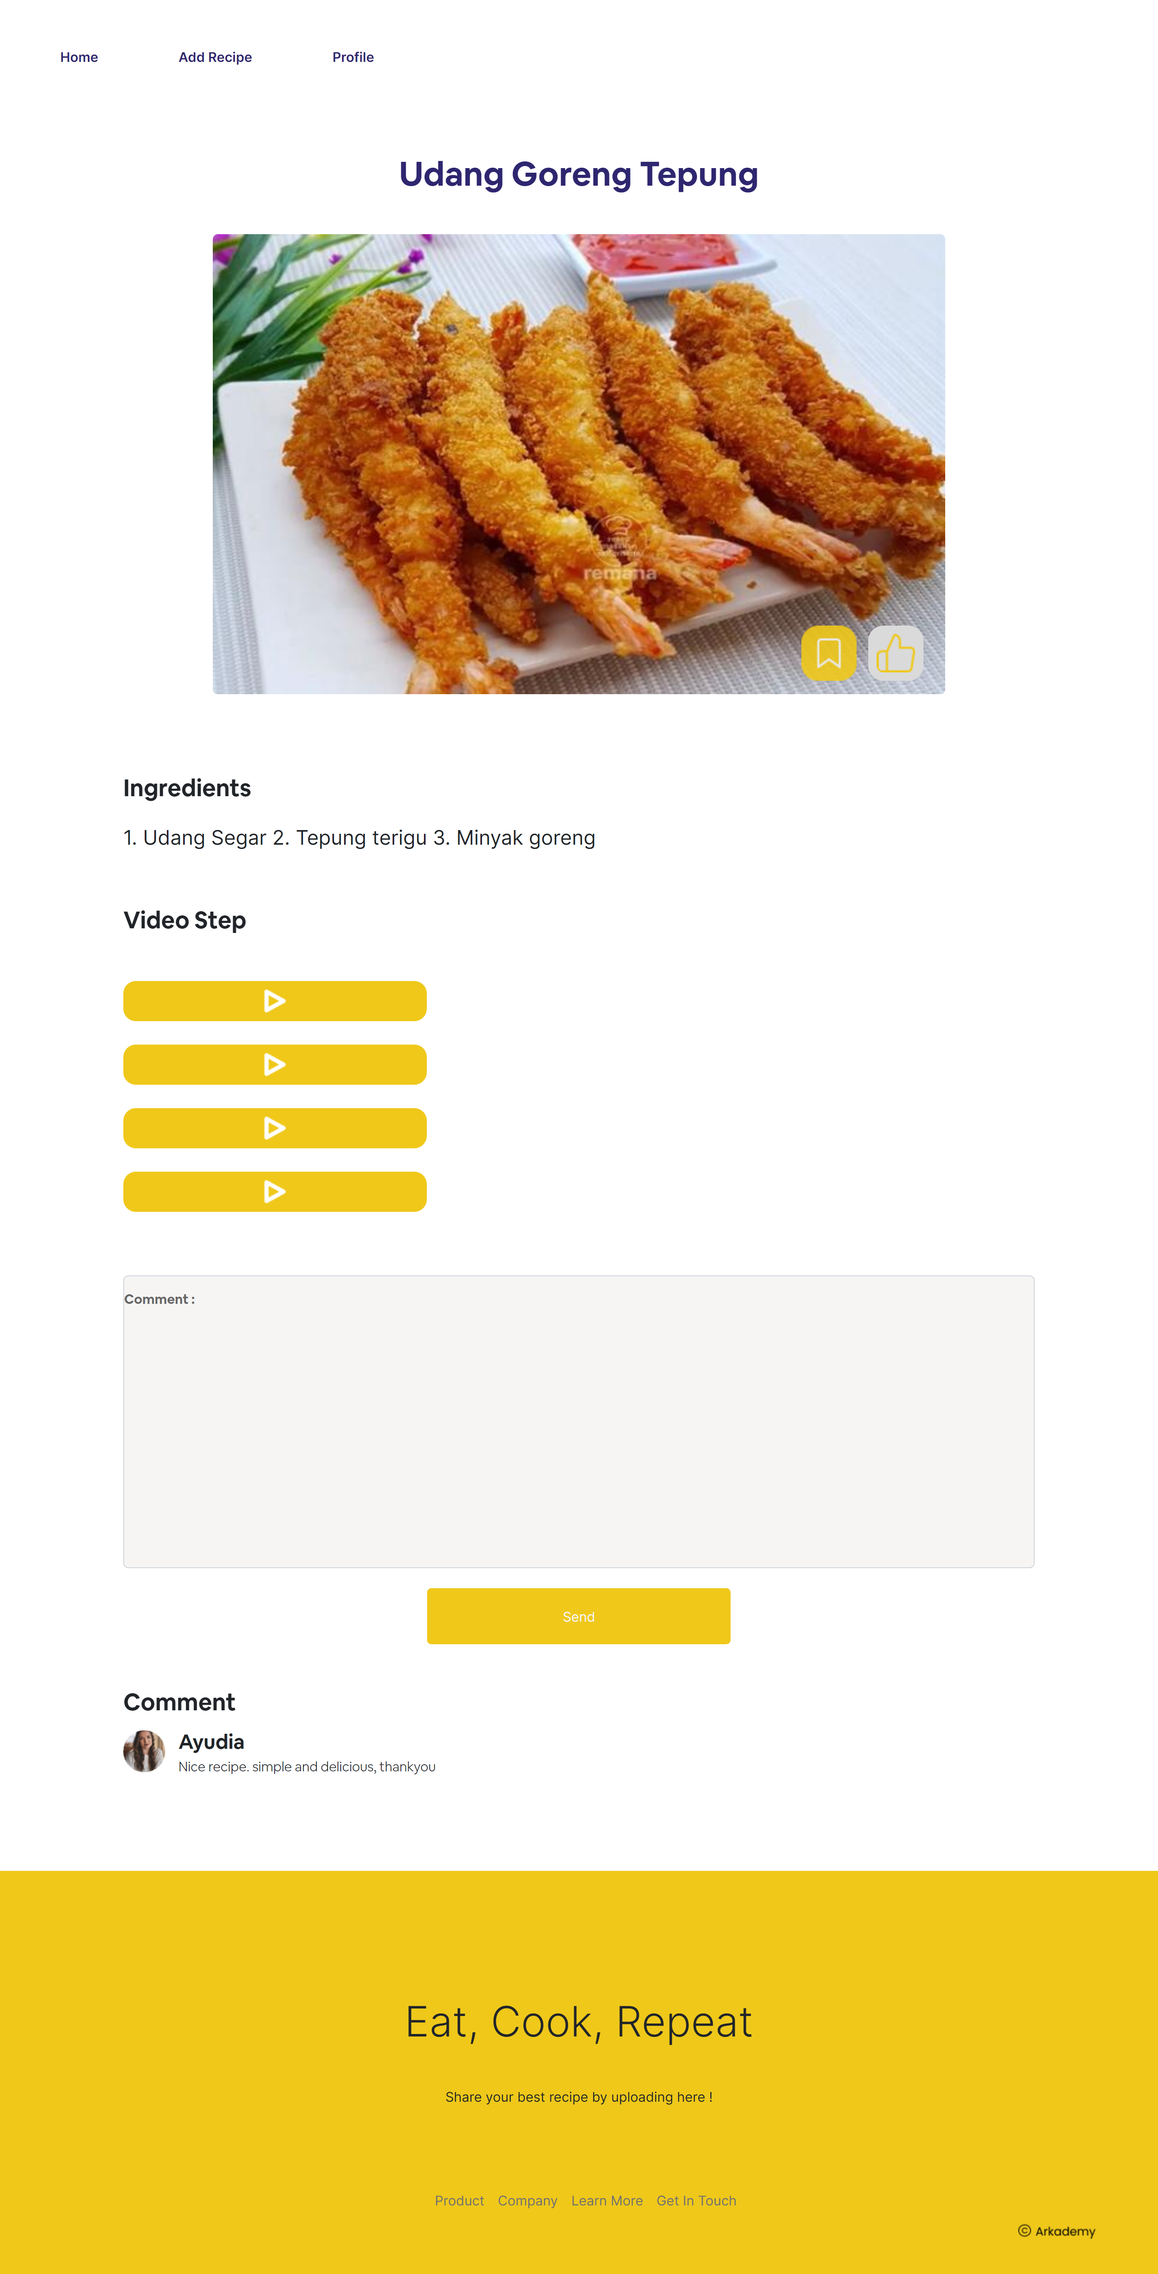
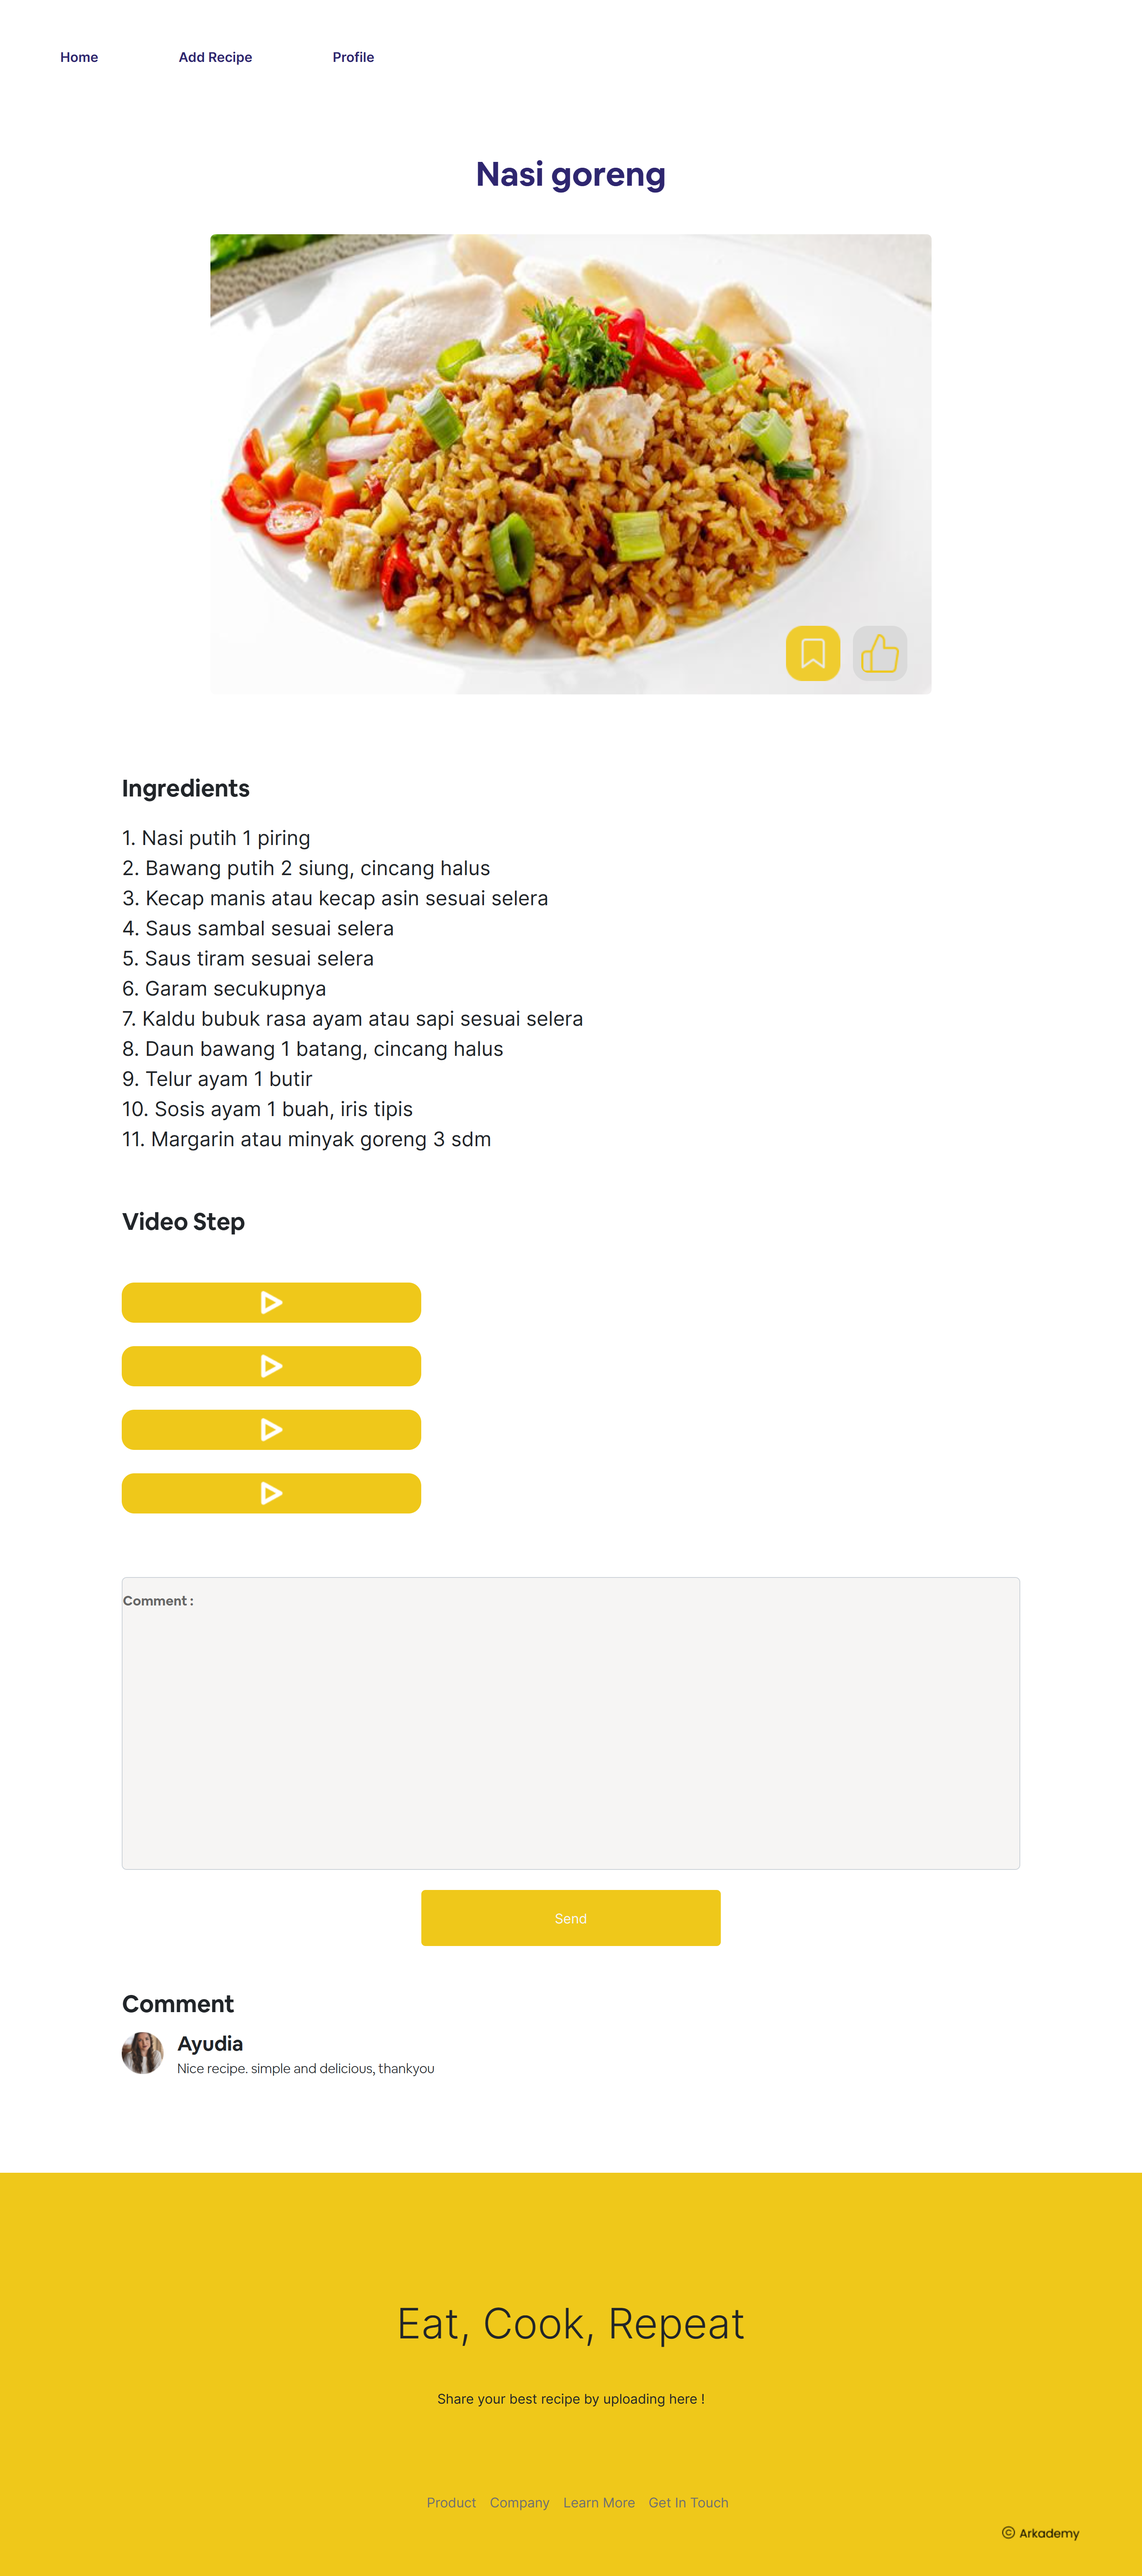
fix detail recipe

diff --git a/src/pages/detailrecipe/index.js b/src/pages/detailrecipe/index.js
@@ -98,7 +98,14 @@ const Detail = () => {
 							</div>
 							<div className={`col-10 mt-3`}>
 								<p className={`fs-4`}>
-									{recipe.length === 1 ? recipe[0].ingredients : ""}
+									{recipe.length === 1
+										? recipe[0].ingredients.split("\n").map((item) => (
+												<>
+													{item}
+													<br />
+												</>
+										  ))
+										: ""}
 								</p>
 							</div>
 						</div>
